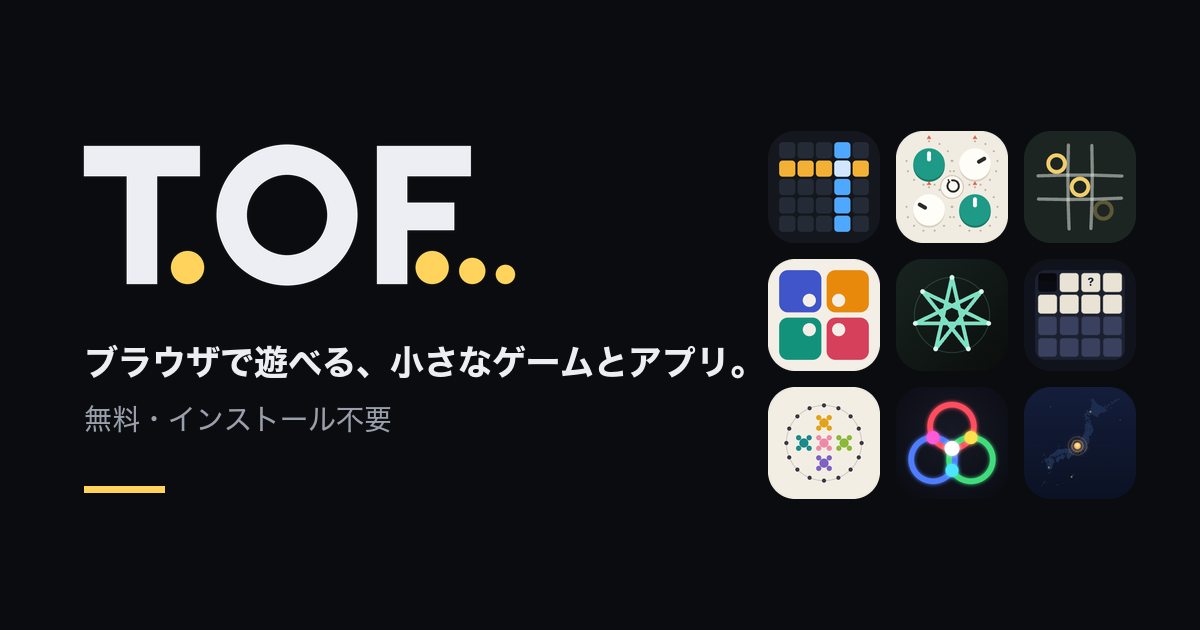
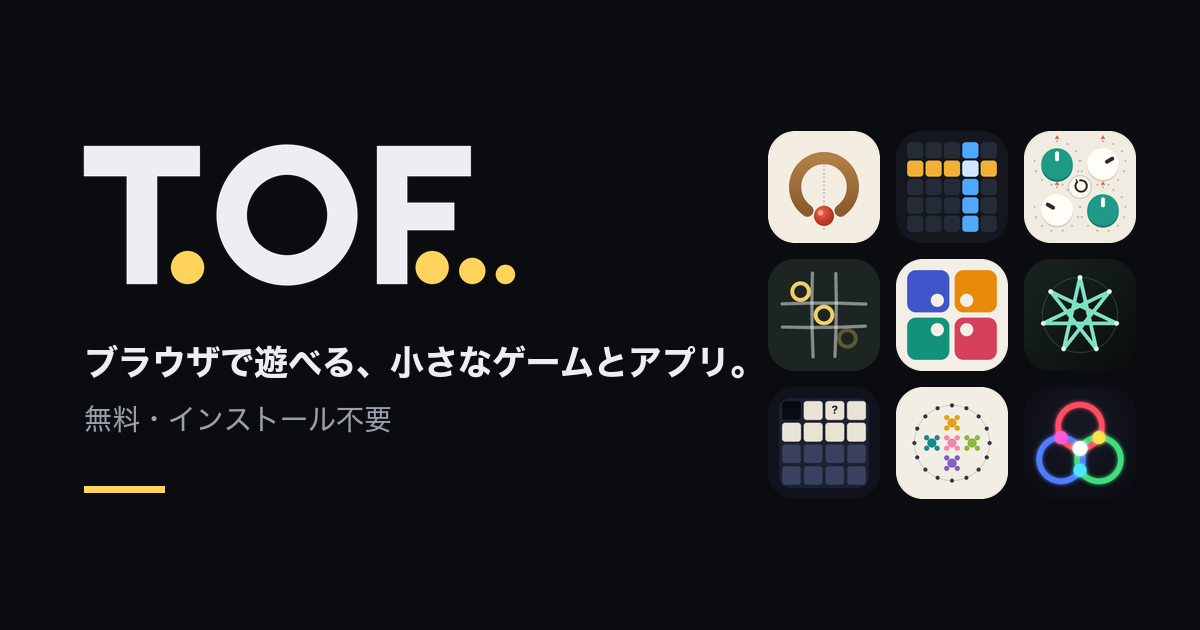
わくぐりをポータルに追加する

Changed region(s): [[0.6167, 0.181, 0.9558, 0.8143]]

diff --git a/apps.js b/apps.js
@@ -13,6 +13,16 @@
 
 window.TOFO_APPS = [
   {
+    id: 'wakuguri',
+    name: 'わくぐり',
+    title: '回る輪のすき間を通す',
+    desc: '回っている輪のすき間を、玉がくぐり抜けるようにタップで撃ち出す。玉は輪を二度横切るので、入るときと出るときの両方ですき間が来る瞬間を読む。全 12 ステージ。',
+    category: 'game',
+    tags: ['タイミング', 'ステージ'],
+    icon: '/wakuguri/icons/icon-192.png',
+    color: '#9c6b36',
+  },
+  {
     id: 'cross-take',
     name: 'CROSS TAKE',
     title: '横と縦で数を取り合う',
